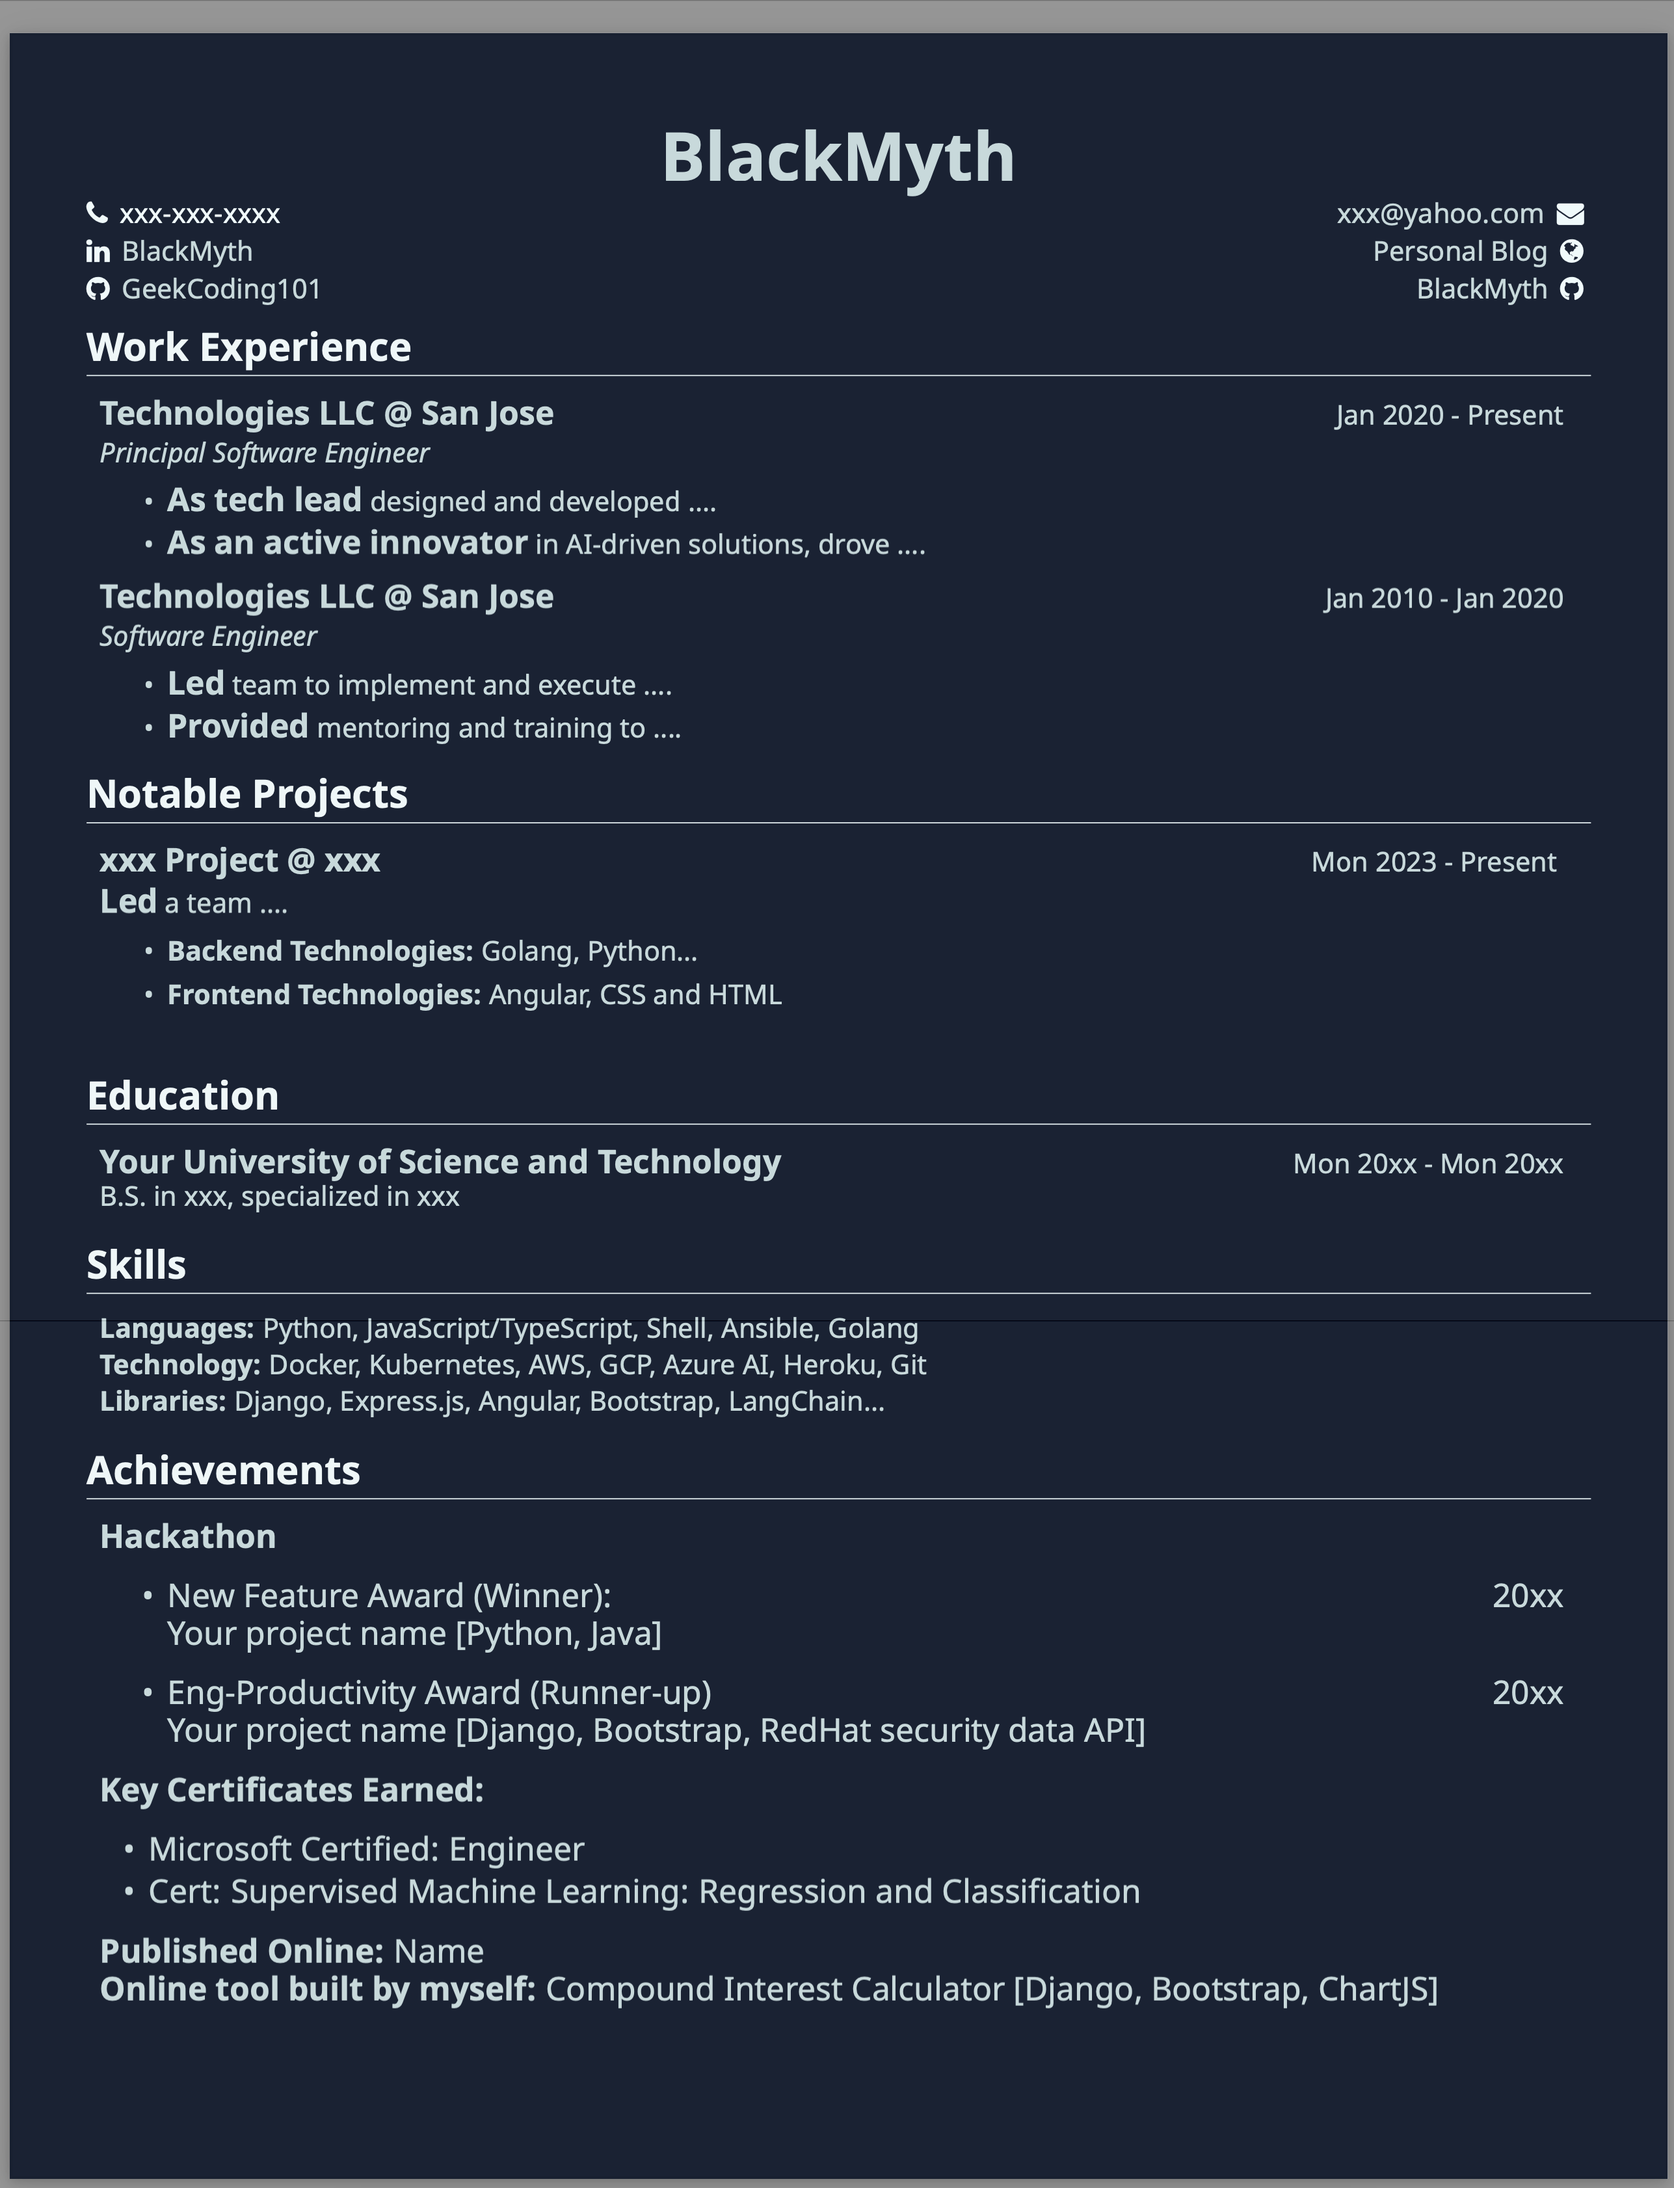
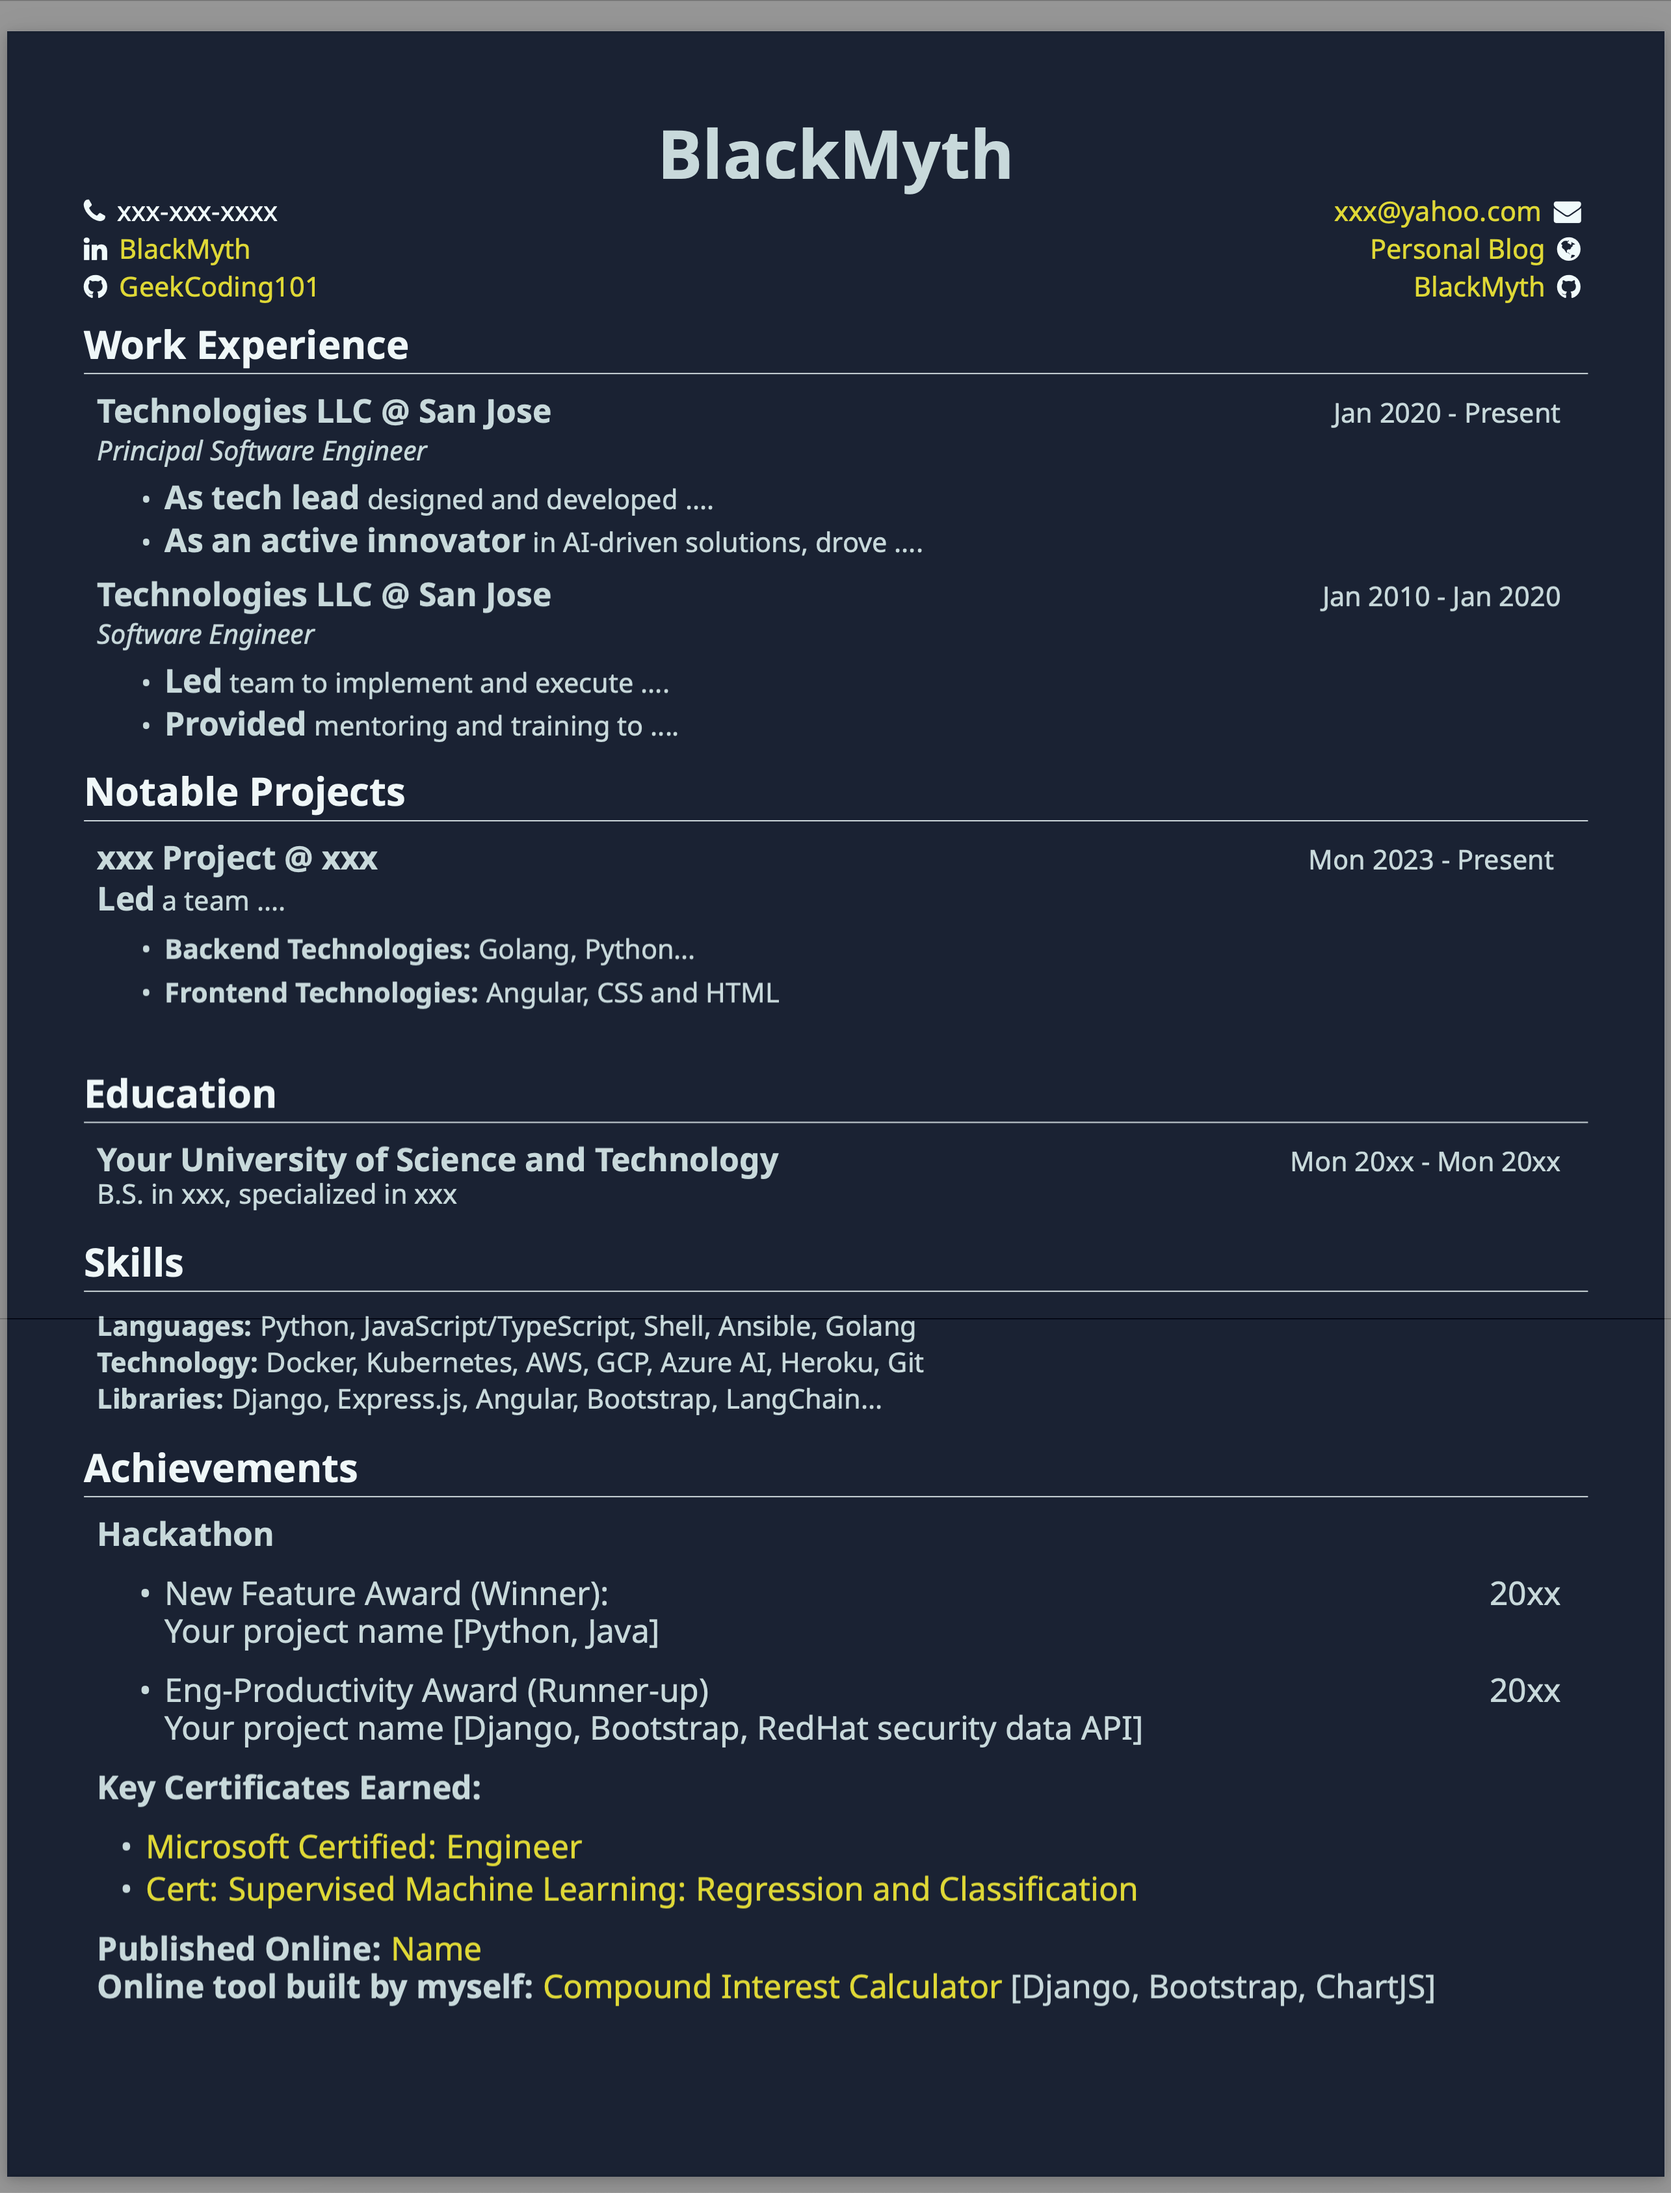
Update link color

diff --git a/resume.template.tex b/resume.template.tex
@@ -69,6 +69,7 @@
 \definecolor{PageColor}{HTML}{1b2333}
 \definecolor{TextColor}{HTML}{c8d9da}
 \definecolor{HeaderColor}{HTML}{eff7f8}
+\definecolor{LinkColor01}{HTML}{DFD836}
 \definecolor{blue}{HTML}{eff7f8}
 \definecolor{white}{HTML}{f0fafb}
 
@@ -79,7 +80,7 @@
     colorlinks=true,
     linkcolor=HeaderColor,
     filecolor=HeaderColor,
-    urlcolor=TextColor,
+    urlcolor=LinkColor01,
 }
 
 % indent space
@@ -218,7 +219,7 @@
 \hypersetup{
     linkcolor=HeaderColor,
     filecolor=HeaderColor,
-    urlcolor=TextColor,
+    urlcolor=LinkColor01,
 }
 
 \begin{addmargin}[0.5em]{1em}
